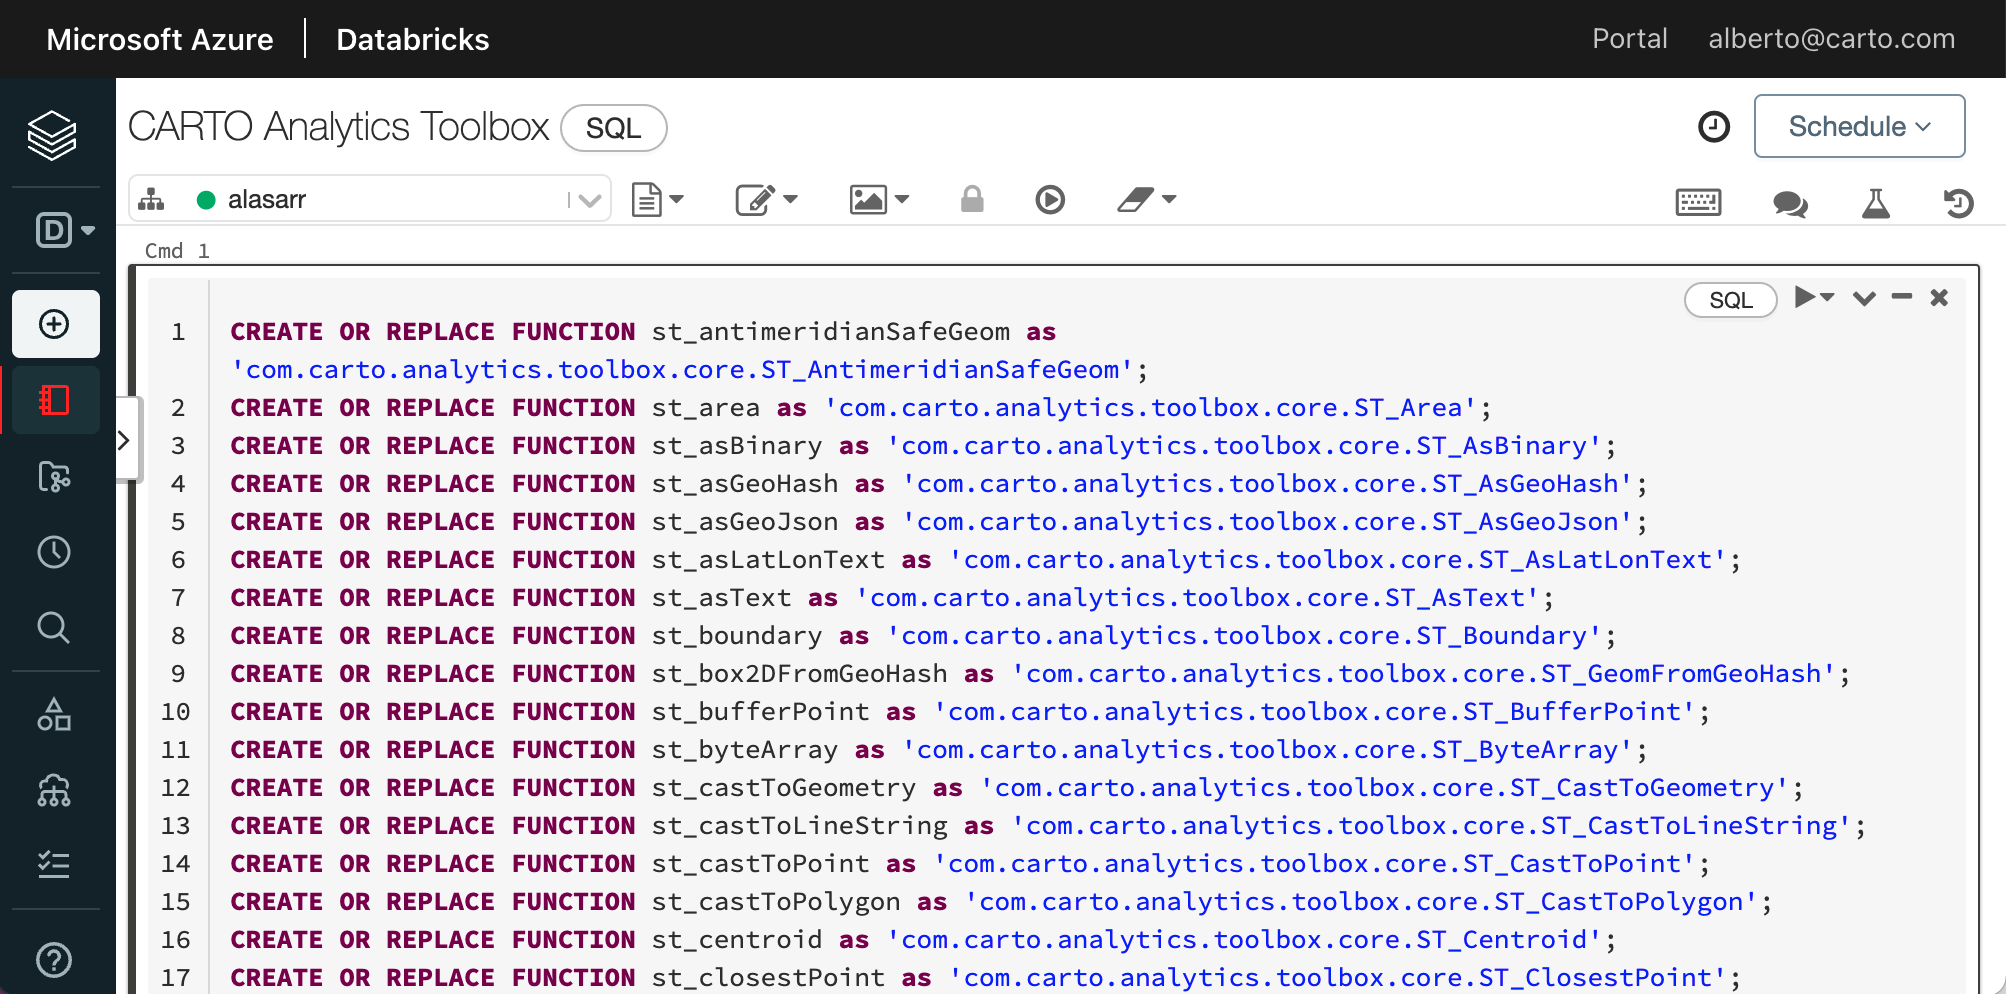
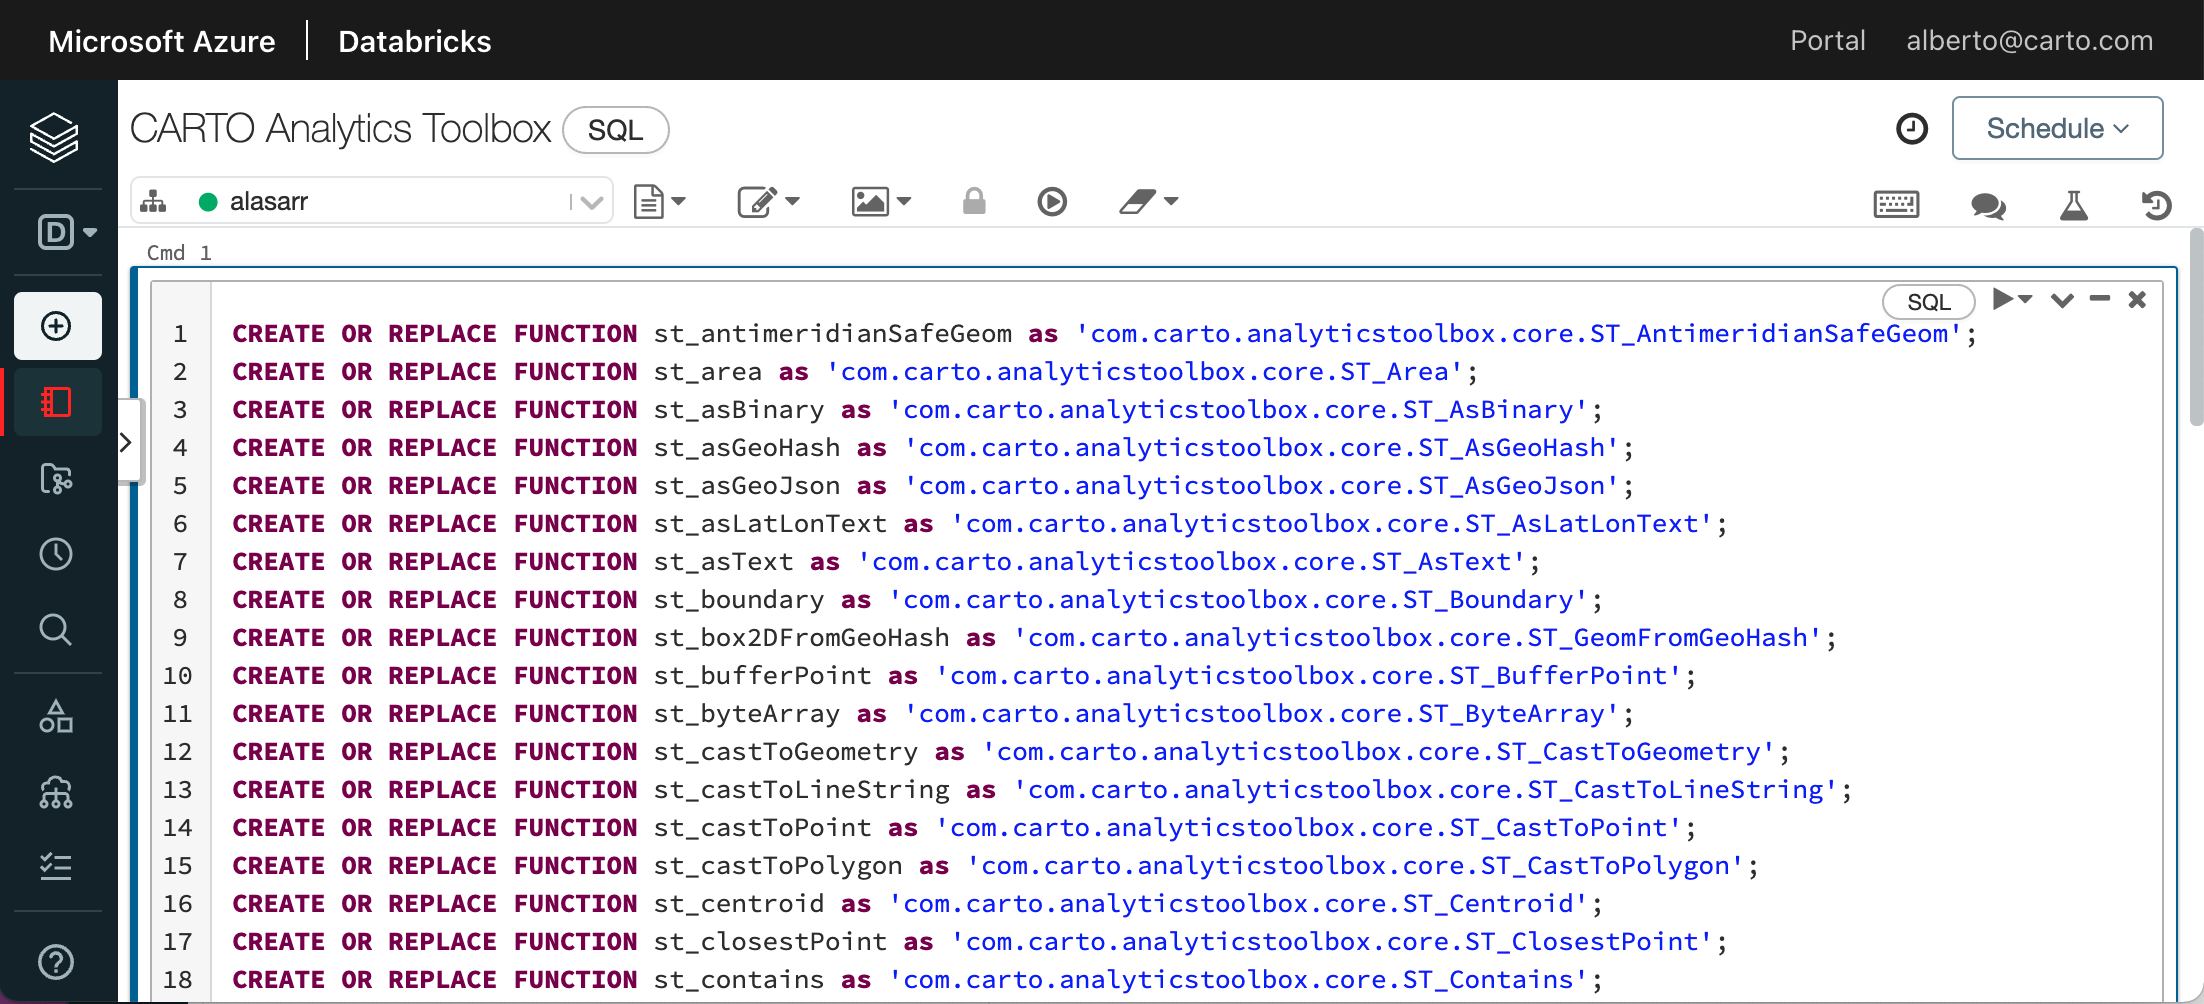
Final package name

diff --git a/app/content/analytics-toolbox-databricks/overview/installation.md b/app/content/analytics-toolbox-databricks/overview/installation.md
@@ -7,9 +7,7 @@ To install the CARTO Analytics Toolbox in your Databricks cluster, follow the in
 * Open the _Libraries_ tab
 * Click on _Install new_
 * Select _Maven_ as Library Source
-<!-- TO DO: Review this part -->
-* Introduce these coordinates: `com.carto.analytics-toolbox_X.Y:1.0.0`
-* Alternatively, you can click on _Search Packages_ and look for `carto.analytics-toolbox`; select the latest version and click on _Select_
+* Click on _Search Packages_ and look for `carto.analyticstoolbox`; select the latest version and click on _Select_
 * Click _Install_ to finish the process. Dependencies of the package will be installed transitively
 
 Once the package is installed, you need to create the SQL UDFs functions in your cluster, open a SQL console and run [this script](https://github.com/CartoDB/analytics-toolbox-databricks/blob/master/core/sql/createUDFs.sql):
